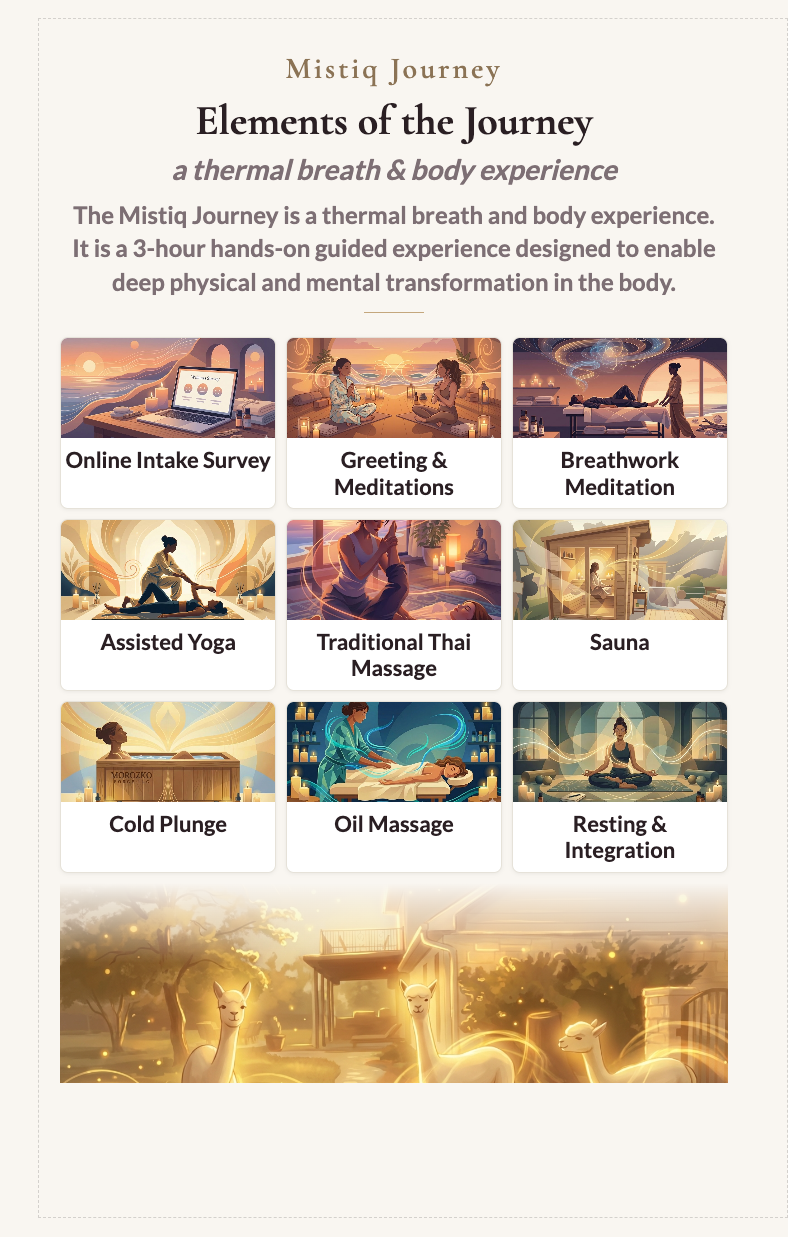
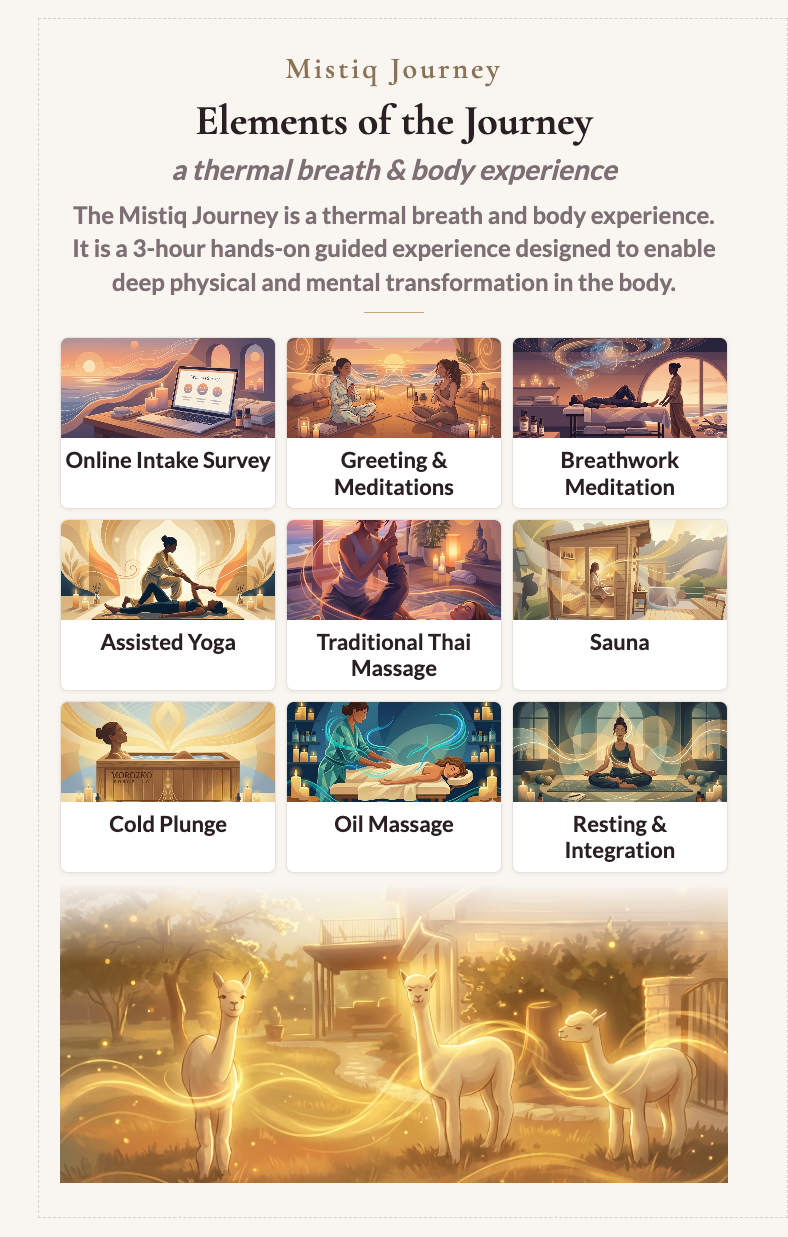
Fix bottom images: taller (300px) with center positioning for visible subjects
Front: trancemode.jpg person now clearly visible at center center
Back: alpacas-illustrated.jpg animals visible at center center
Both images increased from 200px to 300px height

Changed region(s): [[0.0609, 0.7373, 0.9442, 0.983]]

diff --git a/mistiq/business-card.html b/mistiq/business-card.html
@@ -249,10 +249,10 @@
     .card-bottom-image {
       margin-top: auto;
       width: 100%;
-      height: 200px;
+      height: 300px;
       background-image: url('https://aphrrfprbixmhissnjfn.supabase.co/storage/v1/object/public/mistiq-assets/trancemode.jpg');
       background-size: cover;
-      background-position: center bottom;
+      background-position: center center;
       position: relative;
     }
 
@@ -377,10 +377,10 @@
     .card-back .back-bottom-image {
       margin-top: 10px;
       width: 100%;
-      height: 200px;
+      height: 300px;
       background-image: url('alpacas-illustrated.jpg');
       background-size: cover;
-      background-position: center 30%;
+      background-position: center center;
       position: relative;
     }
 
